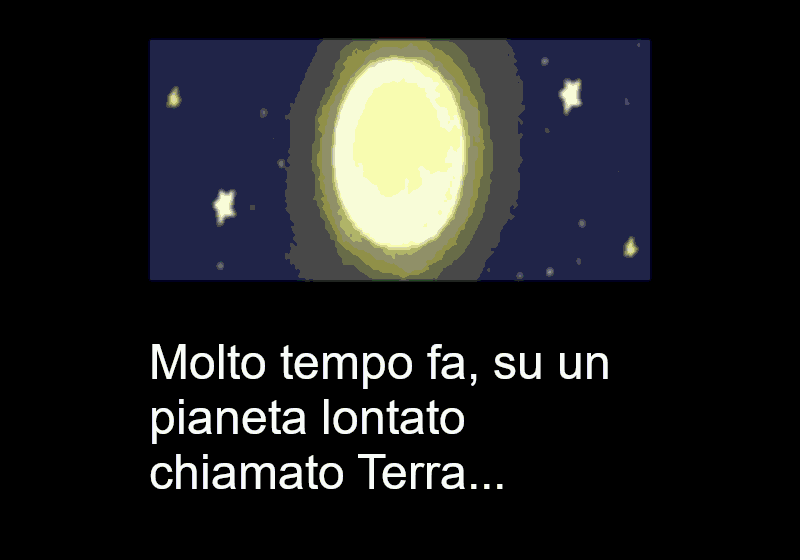
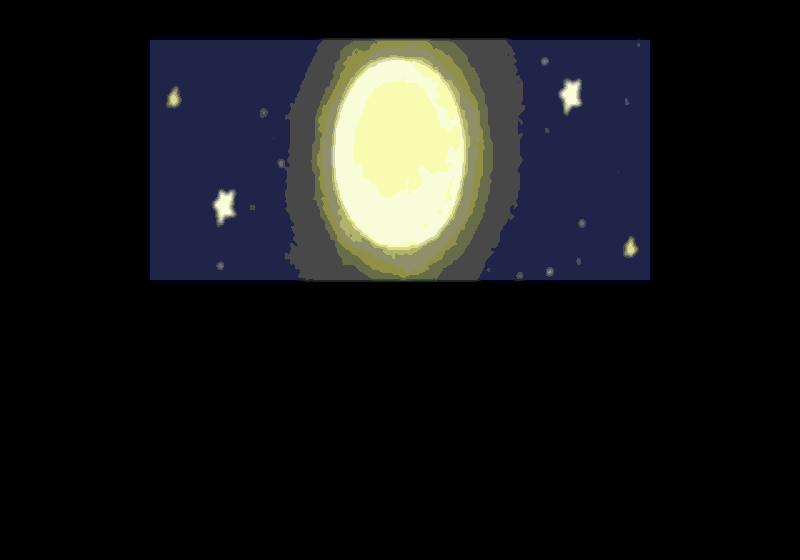
nuova grafica animazione iniziale

Changed region(s): [[0.1875, 0.6071, 0.7812, 0.8804]]

diff --git a/src/com/GUI/IntroGUI.java b/src/com/GUI/IntroGUI.java
@@ -2,34 +2,62 @@ package GUI;
 
 import javax.swing.*;
 import java.awt.*;
+import java.io.File;
+import java.io.FileNotFoundException;
+import java.util.ArrayList;
+import java.util.Scanner;
+import java.util.StringTokenizer;
 import java.util.logging.Level;
 import java.util.logging.Logger;
 
 public class IntroGUI extends JPanel implements  Runnable{
     private Image[] immagini;
+    private ArrayList<String> testo;
     private final int immaginiTotali = 3;
-    private int immagineCorrente;
+    private int pos;
     private Thread runner;
     private int tempoPausa;
     private boolean isFinished;
     private JFrame finestra;
 
+    private static final String filePath = "./src/com/GUI/storia.txt";
+    private static final int DIM_CARATTERE = 33;
+
 
     private final int ancoraggioImmagineX = 100;
     private final int ancoraggioImmagineY = 100;
+
+    private final int ancoraggioTestoX = 30;
+    private final int ancoraggioTestoY = 550;
 
     IntroGUI(int tempoPausa, JFrame finestra) {
 
         this.isFinished = false;
         this.tempoPausa = tempoPausa;
         immagini = new Image[immaginiTotali];
-        immagineCorrente = 0;
+        pos = 0;
 
         this.finestra = finestra;
+        inizializzaTesto();
         inizializzaImmagini();
         avviaAnimazione();
-
     }
+
+    private void inizializzaTesto(){
+
+        testo = new ArrayList<>();
+        try {
+            Scanner scamFile = new Scanner(new File(filePath));
+            while (scamFile.hasNextLine()) {
+                testo.add(scamFile.nextLine());
+            }
+
+        }  catch (FileNotFoundException e){
+            System.out.println("Errore");
+
+        }
+    }
+
 
 
     private void inizializzaImmagini() {
@@ -44,6 +72,7 @@ public class IntroGUI extends JPanel implements  Runnable{
     }
 
 
+
     public void paint (Graphics graphics){
 
         super.paint(graphics);
@@ -51,8 +80,12 @@ public class IntroGUI extends JPanel implements  Runnable{
         Graphics2D screen2D = (Graphics2D) graphics;
         setBackground(Color.BLACK);
 
-        if (immagini[immagineCorrente] != null) {
-            screen2D.drawImage(immagini[immagineCorrente], ancoraggioImmagineX , ancoraggioImmagineY , this);
+        if (immagini[pos] != null) {
+            screen2D.drawImage(immagini[pos], ancoraggioImmagineX , ancoraggioImmagineY , this);
+            screen2D.setColor(Color.WHITE);
+            screen2D.setFont(new Font(MenuGUI.CARATTERE, Font.BOLD, DIM_CARATTERE));
+            screen2D.drawString(testo.get(pos),ancoraggioTestoX, ancoraggioTestoY);
+
         }
 
     }
@@ -75,8 +108,8 @@ public class IntroGUI extends JPanel implements  Runnable{
                 repaint();
                 Thread.sleep(tempoPausa);
 
-                if (immagineCorrente < immagini.length - 1){
-                    immagineCorrente++;
+                if (pos < immagini.length - 1){
+                    pos++;
                 } else {
 
                     stop();

diff --git a/src/com/GUI/MenuGUI.java b/src/com/GUI/MenuGUI.java
@@ -33,7 +33,8 @@ public class MenuGUI extends JPanel implements ActionListener {
 
     private JFrame finestra;
 
-    private static final String CARATTERE = "Segoe UI";
+//    private static final String CARATTERE = "Segoe UI";
+    static final String CARATTERE = "Bauhaus 93";
     private static final int DIM_CARATTERE = 18;
 
     private static final String GIOCA = "Gioca";
